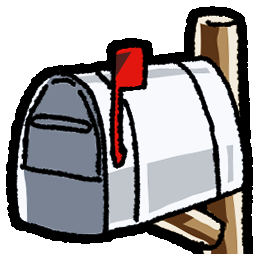
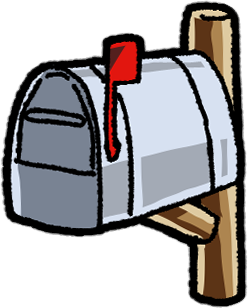
fix: 피그마 기준 앱 홈 HUD 재구성

diff --git a/views.js b/views.js
@@ -1,8 +1,8 @@
 // 모든 화면과 이벤트가 반드시 app.js와 같은 상태 모듈 인스턴스를 본다.
 // 캐시 키가 다르면 브라우저는 같은 state.js를 별도 모듈로 취급해 버튼은
 // 새 상태를 바꾸고 화면은 예전 상태를 그리는 치명적인 불일치가 생긴다.
-import {state,active,characterViewFor,explicitCharacterViewFor} from "./state.js?v=20260820responsivehud1";
-import {eventFor as simulateEventFor,visibleTimeline as simulateVisibleTimeline,charactersAtPlace,homeGroups} from "./simulation.js?v=20260820responsivehud1";
+import {state,active,characterViewFor,explicitCharacterViewFor} from "./state.js?v=20260820homehud2";
+import {eventFor as simulateEventFor,visibleTimeline as simulateVisibleTimeline,charactersAtPlace,homeGroups} from "./simulation.js?v=20260820homehud2";
 const esc=(x="")=>String(x).replace(/[&<>"']/g,m=>({"&":"&amp;","<":"&lt;",">":"&gt;",'"':"&quot;","'":"&#39;"}[m]));
 const I18N={
   en:{brandName:"Drawer Village",observe:"Observe",mailbox:"Mailbox",home:"Home",character:"Characters",catalog:"Collection",relationship:"Relationships",routine:"Weekly routine",statistics:"Statistics",town:"Town",shop:"Shop",settings:"Settings",saved:"Saved on this device",brandTagline:"Character life observation game",currentMoment:"Current moment",todayLog:"Today's log",expand:"Expand",collapse:"Collapse",viewAll:"View all",viewHome:"View home",gridEdit:"Grid edit",language:"Language",languageHelp:"English covers the main interface, and more life scenes and relationship text are translated with every update.",languageNote:"English Beta · Interface and selected life scenes translated; coverage keeps expanding.",mailArrived:"A letter has arrived",mailReady:"Open it when you are ready. Your choice will continue into their actual schedule.",mailEmpty:"No letters have arrived yet",mailEmptyHelp:"Questions, choices, worries, and check-ins from your characters will arrive here.",mailboxHelp:"Read all character letters in one place.",openLetter:"Open letter",characterPicker:"Choose a character to observe",close:"Close",noSleepingRoom:"Other · None (does not stay overnight)"},
@@ -665,8 +665,16 @@ function header(){
   return `<header><div class="brand"><span class="logo"><img src="./icons/drawer-village-logo.png" alt="${esc(t("brandName","서랍마을"))}"></span><div><h1>${t("brandName","서랍마을")}</h1><small>${t("brandTagline","서랍 속 캐릭터 생활 관찰 게임")}</small></div>${previewMode()?`<span class="preview-badge">${esc(previewConfig().label||"사전 체험")}</span>`:""}</div><nav>${tabs.map(([k,n,icon])=>`<button type="button" data-tab="${k}" class="${state.activeTab===k?"on":""}"><span class="tab-icon tab-icon-${k}" data-menu-icon="${k}" aria-hidden="true">${icon}</span><span>${n}</span></button>`).join("")}</nav><span id="save-state">${t("saved","기기에 저장됨")}</span></header>${nativeBar}`;
 }
 const GAME_HUD_SIDE_TABS={
-  left:[["character","character","캐릭터","▱"],["catalog","catalog","취향 사전","◇"],["relationship","relationship","관계","∞"]],
-  right:[["routine","routine","주간 루틴","▦"],["statistics","statistics","통계","▥"],["settings","settings","설정","⚙"]]
+  left:[
+    {key:"character",labelKey:"character",label:"캐릭터",art:"./icons/hud-character-card.png"},
+    {key:"catalog",labelKey:"catalog",label:"취향 사전",art:"./icons/hud-catalog-book.png"},
+    {key:"relationship",labelKey:"relationship",label:"관계",icon:"∞"}
+  ],
+  right:[
+    {key:"routine",labelKey:"routine",label:"주간 루틴",icon:"▦"},
+    {key:"statistics",labelKey:"statistics",label:"통계",icon:"▥"},
+    {key:"settings",labelKey:"settings",label:"설정",icon:"⚙"}
+  ]
 };
 let mobileTownEditing=false;
 let mobileTownPanel="";
@@ -681,7 +689,7 @@ export function setSettingsPane(value="home"){
   settingsPane=["home","gameplay","display","account","support"].includes(next)?next:"home";
 }
 function gameHudSideMenu(side){
-  return `<nav class="game-hud-side game-hud-side-${side}" aria-label="${esc(t(side==="left"?"캐릭터와 관계 메뉴":"일정과 설정 메뉴",side==="left"?"캐릭터와 관계 메뉴":"일정과 설정 메뉴"))}">${GAME_HUD_SIDE_TABS[side].map(([key,labelKey,label,icon])=>`<button type="button" class="game-hud-button" data-tab="${key}"><span data-menu-icon="${key}" aria-hidden="true">${icon}</span><small>${t(labelKey,label)}</small></button>`).join("")}</nav>`;
+  return `<nav class="game-hud-side game-hud-side-${side}" aria-label="${esc(t(side==="left"?"캐릭터와 관계 메뉴":"일정과 설정 메뉴",side==="left"?"캐릭터와 관계 메뉴":"일정과 설정 메뉴"))}">${GAME_HUD_SIDE_TABS[side].map(({key,labelKey,label,art,icon})=>`<button type="button" class="game-hud-button" data-tab="${key}">${art?`<img class="game-hud-menu-art" src="${art}" alt="">`:`<span data-menu-icon="${key}" aria-hidden="true">${icon}</span>`}<small>${t(labelKey,label)}</small></button>`).join("")}</nav>`;
 }
 function gameHudDock(){
   return `<nav class="game-hud-dock" aria-label="${esc(t("주요 메뉴","주요 메뉴"))}"><button type="button" class="game-hud-button game-hud-mailbox-button" data-tab="mailbox"><img src="./icons/mailbox.png" alt=""><small>${t("mailbox","우편함")}</small></button><button type="button" class="game-hud-button" data-tab="home"><span data-menu-icon="home" aria-hidden="true">⌂</span><small>${t("home","집")}</small></button><button type="button" class="game-hud-button" data-open-native-log><span data-menu-icon="log" aria-hidden="true">▤</span><small>${t("todayLog","오늘의 기록")}</small></button><button type="button" class="game-hud-button" data-tab="shop"><span data-menu-icon="shop" aria-hidden="true">♢</span><small>${t("shop","상점")}</small></button><button type="button" data-tab="town" class="game-hud-button game-hud-town-button"><img src="./icons/town-map.png" alt=""><small>${t("town","마을")}</small></button></nav>`;
@@ -1559,10 +1567,10 @@ function observe(){
   // 2인 장면은 lineup이 두 인물을 모두 렌더링한다. 메인 이미지를 중복으로
   // 넣지 않아 예전 CSS가 남아 있어도 거대한 얼굴이 다시 나타나지 않는다.
   const sceneActors=`${presentation.lineupHtml?"":sceneAvatar(c,"native-main-character",presentation.tone,visualMode)}${presentation.sleepMarkHtml}${presentation.lineupHtml}${presentation.conversationHtml}${presentation.thoughtHtml}${presentation.actionHtml}${presentation.companionHtml}${presentation.petHtml}<i></i>`;
-  const hudRoster=`<div class="game-hud-profile"><button type="button" class="game-hud-profile-toggle" data-open-game-hud-roster aria-haspopup="dialog" aria-label="${esc(t("characterPicker","관찰 캐릭터 바꾸기"))}">${profileAvatar(c,"game-hud-current-profile")}<span><b>${esc(c.name)}</b><small>${esc(c.jobTitle||c.job||t("생활 중","생활 중"))}</small></span></button></div>`;
+  const hudRoster=`<div class="game-hud-profile"><button type="button" class="game-hud-profile-toggle" data-open-game-hud-roster aria-haspopup="dialog" aria-label="${esc(t("characterPicker","관찰 캐릭터 바꾸기"))}"><span class="game-hud-profile-frame">${profileAvatar(c,"game-hud-current-profile")}<img class="game-hud-profile-ring" src="./icons/hud-profile-frame.png" alt=""></span><span class="game-hud-profile-copy"><b>${esc(c.name)}</b><small>${esc(c.jobTitle||c.job||t("생활 중","생활 중"))}</small></span></button></div>`;
   const rosterDialog=`<dialog class="game-hud-roster-dialog" data-game-hud-roster-dialog><form method="dialog"><header><span><small>${t("observe","관찰")}</small><h2>${t("characterPicker","관찰 캐릭터 선택")}</h2></span><button value="close" aria-label="${t("close","닫기")}">×</button></header><div class="game-hud-roster-options" aria-label="${esc(t("characterPicker","관찰 캐릭터 선택"))}">${state.order.map(id=>{const person=state.characters[id];return `<button type="button" data-home-character="${id}" class="game-hud-button character-picker-button ${id===c.id?"on":""}" style="--picker-theme:${esc(person.theme?.primary||"#176b60")}" title="${esc(person.name)}" aria-label="${esc(person.name)}">${profileAvatar(person)}<small>${esc(person.name)}</small></button>`}).join("")}</div></form></dialog>`;
   const statusCard=`<article class="game-hud-moment"><div class="game-hud-moment-head"><small>${t("currentMoment","지금 이 순간")}</small></div><h1>${esc(e.title)}</h1><p>${esc(e.desc)}</p><b>${location}</b></article>`;
-  const gameHud=`<section class="game-observe-hud scene-tone-${presentation.tone} scene-action-${presentation.actionKind}" style="--native-own:${esc(c.theme?.primary||"#176b60")};--native-own-secondary:${esc(c.theme?.secondary||c.theme?.primary||"#176b60")};--log-theme:${logTheme}" aria-label="${esc(c.name)}의 관찰 화면"><div class="native-observe-backdrop" style="background-image:url(&quot;${esc(nativeBackground)}&quot;)"></div><div class="native-observe-shade"></div><div class="native-scene-atmosphere atmosphere-${presentation.atmosphere}" aria-hidden="true"></div>${presentation.effects}<div class="game-hud-top">${hudRoster}<time>${new Date().toLocaleTimeString(uiLocale(),{hour:"2-digit",minute:"2-digit"})}</time></div>${gameHudSideMenu("left")}${gameHudSideMenu("right")}<div class="game-hud-stage"><div class="native-character-stage ${stageClasses}" style="--home-visual-scale:${visualScale};${sceneLayoutVars(c,visualMode)}" aria-label="${esc(c.name)} 현재 장면">${sceneActors}</div></div>${statusCard}${gameHudDock()}</section>`;
+  const gameHud=`<section class="game-observe-hud scene-tone-${presentation.tone} scene-action-${presentation.actionKind}" data-native-hud-version="3" style="--native-own:${esc(c.theme?.primary||"#176b60")};--native-own-secondary:${esc(c.theme?.secondary||c.theme?.primary||"#176b60")};--log-theme:${logTheme}" aria-label="${esc(c.name)}의 관찰 화면"><div class="native-observe-backdrop" style="background-image:url(&quot;${esc(nativeBackground)}&quot;)"></div><div class="native-observe-shade"></div><div class="native-scene-atmosphere atmosphere-${presentation.atmosphere}" aria-hidden="true"></div>${presentation.effects}<div class="game-hud-top">${hudRoster}<time>${new Date().toLocaleTimeString(uiLocale(),{hour:"2-digit",minute:"2-digit"})}</time></div>${gameHudSideMenu("left")}${gameHudSideMenu("right")}<div class="game-hud-stage"><div class="native-character-stage ${stageClasses}" style="--home-visual-scale:${visualScale};${sceneLayoutVars(c,visualMode)}" aria-label="${esc(c.name)} 현재 장면">${sceneActors}</div></div>${statusCard}${gameHudDock()}</section>`;
   return `${gameHud}${rosterDialog}${nativeFullLog}${buildingDetailDialogs()}`;
 }
 const ROOM_SIZE_SPANS={
@@ -2995,6 +3003,12 @@ Object.assign(UI_TEXT.en,{
 });
 Object.assign(UI_TEXT.ja,{
   "기타 · 없음 (숙박하지 않음)":"その他・なし（宿泊しない）","마법봉":"魔法の杖","만성 통증":"慢性疼痛","만화":"漫画","만화 보기":"漫画を読む","말차 라테":"抹茶ラテ","맛집 탐방":"グルメ巡り","매력적임":"魅力的","매우 소박함":"とても素朴","매우 아름답거나 잘생김":"とても美しい・ハンサム","매우 추함":"非常に不美形","매우 현실적":"非常に現実的","매운 음식":"辛い料理","매운맛":"辛さ","매트":"マット","맹·시각장애":"盲・視覚障害","머스크":"ムスク","먹방":"モッパン","면 요리 선호":"麺料理を好む","모던":"モダン","모바일 게임":"モバイルゲーム","모험":"冒険"
+});
+Object.assign(UI_TEXT.en,{
+  "물그릇에서 가볍게 물놀이를 한 뒤 날개를 털어 물기를 털고 있어요.":"After splashing lightly in the water bowl, they shake their wings dry.","미관용 의수":"Cosmetic prosthetic arm","미관용 의족":"Cosmetic prosthetic leg","미니멀":"Minimal","미래적":"Futuristic","미리 정리함":"Plans and organizes ahead","미술 도구":"Art supplies","미스터리":"Mystery","밀크티":"Milk tea","바닐라 라테":"Vanilla latte","바디 제품":"Body care products","바디파워 의수":"Body-powered prosthetic arm","바디파워 손형 의수":"Body-powered hand prosthesis","바디파워 갈고리형 의수":"Body-powered hook prosthesis","바깥 일정을 마치고 집으로 돌아왔어요.":"They finished their plans outside and came home.","바닥의 작은 장애물을 피해 천천히 움직이고 있어요.":"They move slowly around small obstacles on the floor.","믿는 사람 가까이에 머물며 조용히 주변을 살피고 있어요.":"They stay near someone they trust and quietly watch their surroundings.","미리보기에서 직접 끌거나 크기 조절 손잡이를 사용하세요.":"Drag directly in the preview or use the resize handle.","매우 편안함":"Very comfortable","매우 불편함":"Very uncomfortable"
+});
+Object.assign(UI_TEXT.ja,{
+  "물그릇에서 가볍게 물놀이를 한 뒤 날개를 털어 물기를 털고 있어요.":"水入れで軽く水浴びをした後、翼を羽ばたかせて水気を払っています。","미관용 의수":"装飾用義手","미관용 의족":"装飾用義足","미니멀":"ミニマル","미래적":"未来的","미리 정리함":"前もって整理する","미술 도구":"画材","미스터리":"ミステリー","밀크티":"ミルクティー","바닐라 라테":"バニララテ","바디 제품":"ボディケア用品","바디파워 의수":"体動式義手","바디파워 손형 의수":"体動式ハンド型義手","바디파워 갈고리형 의수":"体動式フック型義手","바깥 일정을 마치고 집으로 돌아왔어요.":"外での予定を終えて家に戻りました。","바닥의 작은 장애물을 피해 천천히 움직이고 있어요.":"床の小さな障害物を避けながらゆっくり動いています。","믿는 사람 가까이에 머물며 조용히 주변을 살피고 있어요.":"信頼する人のそばにいて、静かに周囲を見ています。","미리보기에서 직접 끌거나 크기 조절 손잡이를 사용하세요.":"プレビュー上で直接ドラッグするか、サイズ調整ハンドルを使ってください。","매우 편안함":"とても快適","매우 불편함":"とても不快"
 });
 function townPlaceEditor(p,items,audiences,selected){
   return `<details class="${selected?"mobile-selected":""}" ${selected?"open":""}><summary><b>${esc(p.emoji)} ${esc(p.name)}</b></summary><div class="place-edit-heading"><span><b>${esc(p.name)} 편집</b><small>유형을 먼저 고르면 어울리는 건물 모양을 추천해요.</small></span><button class="danger" data-delete-place="${p.id}">이 건물 삭제</button></div><div class="place-config"><label>건물 이름<input data-place-field="name" data-place-id="${p.id}" value="${esc(p.name)}"></label><label>건물 유형<select data-place-field="type" data-place-id="${p.id}">${placeTypeOptions(p)}</select></label><label>세부 유형<select data-place-field="subtype" data-place-id="${p.id}">${placeSubtypeOptions(p)}</select></label><label>가격대<select data-place-field="priceRange" data-place-id="${p.id}">${["저렴","보통","고급","명품"].map(x=>`<option ${p.priceRange===x?"selected":""}>${x}</option>`).join("")}</select></label><label>마을 속 건물 크기<input type="range" min=".45" max="1.5" step=".05" data-place-field="imageScale" data-place-id="${p.id}" value="${p.imageScale||1}"></label><label>매운맛 정도<select data-place-field="spicy" data-place-id="${p.id}">${levelOptions(SPICE_LEVELS,p.spicy||0)}</select></label><label>단맛 정도<select data-place-field="sweet" data-place-id="${p.id}">${levelOptions(SWEET_LEVELS,p.sweet||0)}</select></label></div><div class="place-photo-tools"><b>지도에 표시할 건물 모양</b><span><button data-building-shape-open="${p.id}">건물 모양 선택</button></span><b>생활 로그·현재 장면용 내부 사진</b><span><button data-place-interior-image="${p.id}">내부 사진 업로드</button><button data-image-url="placeInterior" data-id="${p.id}">링크</button>${p.interiorImage?`<button data-clear-place-interior-image="${p.id}">지우기</button>`:""}</span></div><h4>주요 이용층</h4><div class="stock-picker">${audiences.map(x=>`<button data-place-audience="${p.id}" data-value="${x}" class="${(p.audiences||[]).includes(x)?"on":""}">${x}</button>`).join("")}</div><h4>이곳에서 파는 것·이용할 수 있는 것</h4><div class="stock-list stock-picker">${items.map(item=>`<button data-place-stock="${p.id}" data-item-id="${item.id}" class="${(p.stock||[]).includes(item.id)?"on":""}">${CATALOG_LABELS[item.kind]} · ${esc(item.name)}</button>`).join("")}</div></details>`;

diff --git a/app.css b/app.css
@@ -6387,11 +6387,121 @@ html[data-color-mode][data-visual-theme="baroque"] .visual-theme-options button[
   content:"❦";position:absolute;z-index:2;right:18px;top:50%;translate:0 -50%;color:#f0c78f;font:700 28px Georgia,serif;text-shadow:0 1px #351724;
 }
 
-/* Final home-screen authority (keep after all legacy mobile rules). */
-html.native-app[data-active-tab="observe"] .native-character-picker button,
-html[data-color-mode="light"].native-app[data-active-tab="observe"] .native-character-picker button{
-  border:0!important;outline:0!important;background:transparent!important;box-shadow:none!important
+/* Native observe HUD v3 is the single authority for the Android home screen.
+   Percentages reproduce the 412 x 917 Figma frame. Gray boxes in that frame are
+   placement guides, never visible icon backgrounds. */
+html.native-platform #app>header{display:none!important}
+html[data-observe-profile-shield="1"] [data-open-game-hud-roster]{pointer-events:none!important}
+html.native-platform[data-active-tab="observe"] :is(body,#app,main){height:100dvh;min-height:0!important;overflow:hidden!important}
+html.native-platform[data-active-tab="observe"] #app>main{padding:0!important}
+html.native-platform[data-active-tab="observe"] .game-observe-hud[data-native-hud-version="3"]{
+  --hud-side-top:13.85dvh;--hud-side-row:11.45dvh;--hud-icon-h:6.87dvh;--hud-label-top:6.22dvh;--hud-label-h:3.71dvh;
+  position:relative!important;display:block!important;width:100%!important;height:100dvh!important;min-height:0!important;
+  margin:0!important;padding:0!important;overflow:hidden!important;border:0!important;border-radius:0!important;box-shadow:none!important;touch-action:pan-y!important
 }
+html.native-platform[data-active-tab="observe"] .game-observe-hud[data-native-hud-version="3"] .game-hud-top{
+  position:absolute!important;z-index:24!important;inset:0 0 auto 0!important;display:block!important;width:100%!important;height:13.1dvh!important;
+  padding:0!important;overflow:visible!important;pointer-events:none!important
+}
+html.native-platform[data-active-tab="observe"] .game-observe-hud[data-native-hud-version="3"] .game-hud-top::before{
+  position:absolute!important;z-index:-1!important;inset:0!important;content:""!important;background:#654838ed!important;
+  clip-path:polygon(0 0,100% 0,100% 67%,51% 67%,47% 100%,0 100%)!important
+}
+html.native-platform[data-active-tab="observe"] .game-observe-hud[data-native-hud-version="3"] .game-hud-profile{
+  position:absolute!important;left:1.7vw!important;top:3.38dvh!important;width:min(67vw,330px)!important;height:min(9.6dvh,94px)!important;pointer-events:auto!important
+}
+html.native-platform[data-active-tab="observe"] .game-observe-hud[data-native-hud-version="3"] .game-hud-profile-toggle{
+  display:grid!important;grid-template-columns:min(18.93vw,88px) minmax(0,1fr)!important;align-items:center!important;gap:2.1vw!important;
+  width:100%!important;height:100%!important;min-height:0!important;padding:0!important;overflow:visible!important;border:0!important;background:transparent!important;box-shadow:none!important
+}
+html.native-platform[data-active-tab="observe"] .game-observe-hud[data-native-hud-version="3"] .game-hud-profile-frame{
+  position:relative!important;display:grid!important;place-items:center!important;width:min(18.93vw,88px)!important;height:min(8.51dvh,88px)!important;
+  overflow:visible!important;border:0!important;background:transparent!important;box-shadow:none!important
+}
+html.native-platform[data-active-tab="observe"] .game-observe-hud[data-native-hud-version="3"] .game-hud-profile-frame :is(.avatar,.sprite){
+  width:min(15.05vw,70px)!important;height:min(6.76dvh,70px)!important;overflow:hidden!important;border:0!important;border-radius:50%!important;
+  background:transparent!important;box-shadow:none!important;object-fit:cover!important
+}
+html.native-platform[data-active-tab="observe"] .game-observe-hud[data-native-hud-version="3"] .game-hud-profile-ring{
+  position:absolute!important;inset:0!important;z-index:2!important;display:block!important;width:100%!important;height:100%!important;max-width:none!important;
+  object-fit:contain!important;pointer-events:none!important
+}
+html.native-platform[data-active-tab="observe"] .game-observe-hud[data-native-hud-version="3"] .game-hud-profile-copy{
+  display:grid!important;align-content:center!important;min-width:0!important;padding:0!important;border:0!important;background:transparent!important;box-shadow:none!important
+}
+html.native-platform[data-active-tab="observe"] .game-observe-hud[data-native-hud-version="3"] .game-hud-profile-copy b{
+  overflow:hidden!important;color:#f3dfbb!important;font-size:clamp(22px,7vw,34px)!important;line-height:1.05!important;text-overflow:ellipsis!important;
+  white-space:nowrap!important;text-shadow:0 2px 4px #2a160d99!important
+}
+html.native-platform[data-active-tab="observe"] .game-observe-hud[data-native-hud-version="3"] .game-hud-profile-copy small{
+  overflow:hidden!important;color:#ead3ae!important;font-size:clamp(11px,3.5vw,17px)!important;text-overflow:ellipsis!important;white-space:nowrap!important;
+  text-shadow:0 2px 4px #2a160d99!important
+}
+html.native-platform[data-active-tab="observe"] .game-observe-hud[data-native-hud-version="3"] .game-hud-top>time{
+  position:absolute!important;top:4.03dvh!important;right:4.1vw!important;margin:0!important;padding:0!important;color:#f3dfbb!important;
+  font-size:clamp(20px,6vw,29px)!important;line-height:1!important;text-shadow:0 2px 4px #2a160d99!important
+}
+html.native-platform[data-active-tab="observe"] .game-observe-hud[data-native-hud-version="3"] .game-hud-stage{
+  position:absolute!important;z-index:7!important;left:18.45vw!important;right:18.45vw!important;top:13.1dvh!important;height:49.4dvh!important;
+  display:grid!important;place-items:center!important;min-height:0!important;padding:0!important;overflow:visible!important;pointer-events:none!important
+}
+html.native-platform[data-active-tab="observe"] .game-observe-hud[data-native-hud-version="3"] .native-character-stage{width:min(48vw,220px)!important;height:min(32dvh,280px)!important}
+html.native-platform[data-active-tab="observe"] .game-observe-hud[data-native-hud-version="3"] .native-character-stage:is(.has-scene-companion,.has-scene-lineup){width:min(65vw,300px)!important;height:min(32dvh,280px)!important}
+html.native-platform[data-active-tab="observe"] .game-observe-hud[data-native-hud-version="3"] .game-hud-side{
+  position:absolute!important;z-index:25!important;top:var(--hud-side-top)!important;display:grid!important;grid-template-rows:repeat(3,var(--hud-side-row))!important;
+  align-content:start!important;gap:0!important;width:16.75vw!important;height:34.35dvh!important;overflow:visible!important
+}
+html.native-platform[data-active-tab="observe"] .game-observe-hud[data-native-hud-version="3"] .game-hud-side-left{left:2.91vw!important}
+html.native-platform[data-active-tab="observe"] .game-observe-hud[data-native-hud-version="3"] .game-hud-side-right{right:2.91vw!important}
+html.native-platform[data-active-tab="observe"] .game-observe-hud[data-native-hud-version="3"] .game-hud-side button,
+html.native-platform[data-active-tab="observe"] .game-observe-hud[data-native-hud-version="3"] .game-hud-dock button{
+  position:relative!important;display:block!important;width:100%!important;height:100%!important;min-width:0!important;min-height:0!important;padding:0!important;
+  overflow:visible!important;border:0!important;outline:0!important;background:transparent!important;box-shadow:none!important;text-shadow:none!important
+}
+html.native-platform[data-active-tab="observe"] .game-observe-hud[data-native-hud-version="3"] .game-hud-side button>span,
+html.native-platform[data-active-tab="observe"] .game-observe-hud[data-native-hud-version="3"] .game-hud-side .game-hud-menu-art{
+  position:absolute!important;top:0!important;left:50%!important;display:grid!important;place-items:center!important;width:15.29vw!important;height:var(--hud-icon-h)!important;
+  max-width:none!important;overflow:visible!important;transform:translateX(-50%)!important;border:0!important;background:transparent!important;box-shadow:none!important;
+  color:#fff!important;font-size:clamp(31px,10.4vw,45px)!important;line-height:1!important;object-fit:contain!important;filter:drop-shadow(0 3px 3px #0009)!important
+}
+html.native-platform[data-active-tab="observe"] .game-observe-hud[data-native-hud-version="3"] :is(.game-hud-side,.game-hud-dock) button>small{
+  position:absolute!important;z-index:3!important;display:grid!important;place-items:center!important;height:var(--hud-label-h)!important;margin:0!important;padding:0 4px!important;
+  overflow:hidden!important;border:2px solid #1c140e!important;border-radius:999px!important;background:#473a28!important;color:#d4bb7c!important;
+  font-size:clamp(8px,2.65vw,12px)!important;font-weight:900!important;line-height:1!important;text-align:center!important;text-overflow:ellipsis!important;
+  white-space:nowrap!important;text-shadow:none!important;box-shadow:none!important
+}
+html.native-platform[data-active-tab="observe"] .game-observe-hud[data-native-hud-version="3"] .game-hud-side button>small{
+  top:var(--hud-label-top)!important;left:50%!important;width:16.75vw!important;transform:translateX(-50%)!important
+}
+html.native-platform[data-active-tab="observe"] .game-observe-hud[data-native-hud-version="3"] .game-hud-moment{
+  position:absolute!important;z-index:27!important;left:8.74vw!important;top:64.34dvh!important;width:84.71vw!important;height:20.39dvh!important;max-width:none!important;
+  margin:0!important;padding:clamp(12px,3.4vw,18px)!important;overflow:hidden!important;border:1px solid #c9ab91!important;border-radius:29px!important;
+  background:#fff8efed!important;box-shadow:0 5px 18px #2b160d35!important
+}
+html.native-platform[data-active-tab="observe"] .game-observe-hud[data-native-hud-version="3"] .game-hud-moment-head{margin:0 0 3px!important}
+html.native-platform[data-active-tab="observe"] .game-observe-hud[data-native-hud-version="3"] .game-hud-moment h1{
+  display:-webkit-box!important;margin:0 0 4px!important;overflow:hidden!important;font-size:clamp(17px,4.8vw,23px)!important;line-height:1.18!important;
+  -webkit-box-orient:vertical!important;-webkit-line-clamp:2!important;line-clamp:2!important
+}
+html.native-platform[data-active-tab="observe"] .game-observe-hud[data-native-hud-version="3"] .game-hud-moment p{
+  display:-webkit-box!important;margin:0 0 5px!important;overflow:hidden!important;font-size:clamp(10px,2.9vw,13px)!important;line-height:1.35!important;
+  -webkit-box-orient:vertical!important;-webkit-line-clamp:2!important;line-clamp:2!important
+}
+html.native-platform[data-active-tab="observe"] .game-observe-hud[data-native-hud-version="3"] .game-hud-moment>b{display:block!important;overflow:hidden!important;font-size:clamp(9px,2.7vw,12px)!important;text-overflow:ellipsis!important;white-space:nowrap!important}
+html.native-platform[data-active-tab="observe"] .game-observe-hud[data-native-hud-version="3"] .game-hud-dock{
+  position:absolute!important;z-index:28!important;left:1.21vw!important;top:86.69dvh!important;display:grid!important;grid-template-columns:repeat(5,1fr)!important;
+  gap:1.21vw!important;width:97.57vw!important;height:11.45dvh!important;min-height:0!important;margin:0!important;padding:0!important;
+  overflow:visible!important;border:0!important;background:transparent!important;box-shadow:none!important
+}
+html.native-platform[data-active-tab="observe"] .game-observe-hud[data-native-hud-version="3"] .game-hud-dock button>span,
+html.native-platform[data-active-tab="observe"] .game-observe-hud[data-native-hud-version="3"] .game-hud-dock button>img{
+  position:absolute!important;top:0!important;left:50%!important;display:grid!important;place-items:center!important;width:18.45vw!important;height:8.29dvh!important;
+  max-width:none!important;overflow:visible!important;transform:translateX(-50%)!important;border:0!important;background:transparent!important;box-shadow:none!important;
+  color:#fff!important;font-size:clamp(27px,8.6vw,38px)!important;line-height:1!important;object-fit:contain!important;filter:drop-shadow(0 3px 3px #0008)!important
+}
+html.native-platform[data-active-tab="observe"] .game-observe-hud[data-native-hud-version="3"] .game-hud-dock button>small{top:7.63dvh!important;left:0!important;width:100%!important;max-width:none!important}
+html.native-app[data-active-tab="observe"] .native-character-picker button,
+html[data-color-mode="light"].native-app[data-active-tab="observe"] .native-character-picker button,
 html.native-app[data-active-tab="observe"] .native-character-picker button.on,
 html[data-color-mode="light"].native-app[data-active-tab="observe"] .native-character-picker button.on{
   border:0!important;outline:0!important;background:transparent!important;box-shadow:none!important
@@ -6399,6 +6509,10 @@ html[data-color-mode="light"].native-app[data-active-tab="observe"] .native-char
 html.native-app[data-active-tab="observe"] .native-character-picker button.on :is(.avatar,.sprite){
   filter:drop-shadow(0 0 2px #fff) drop-shadow(0 0 7px var(--picker-theme,var(--p))) drop-shadow(0 0 16px var(--picker-theme,var(--p)))!important;
   animation:native-picker-aura 2.2s ease-in-out infinite alternate!important
+}
+@media(max-width:380px),(max-height:720px){
+  html.native-platform[data-active-tab="observe"] .game-observe-hud[data-native-hud-version="3"] .game-hud-moment{padding:10px 12px!important}
+  html.native-platform[data-active-tab="observe"] .game-observe-hud[data-native-hud-version="3"] .game-hud-moment p{-webkit-line-clamp:1!important;line-clamp:1!important}
 }
 
 /* 2026-08-15: final mobile scene, action-prop, and expansion-card authority. */

diff --git a/app.js b/app.js
@@ -1,10 +1,10 @@
-import {state, active, save, replaceState, createCharacter, deleteCharacter, setActive, setActiveHome, updateCharacter, toggleChip, addRelationship, updateRelationship, deleteRelationship, setHomeImage, setHomeBackground, setPlaceInteriorImage, setCharacterImage, setWorldBackground, addPlace, deletePlace, movePlace, moveHomeOnTown, updatePlace, reorderPlace, resetAll, cloneState, setHomeEditMode, updateHome, createHome, deleteHome, addCharacterResidence, removeCharacterResidence, updateCharacterResidence, updateRoom, addRoom, setHomeFloorCount, setActiveHomeFloor, setRoomType, deleteRoom, addPet, updatePet, deletePet, setPetImage, addCar, updateCar, deleteCar, toggleFurniture, setHomeResidents, moveCharacter, addCatalogItem, updateCatalogItem, deleteCatalogItem, toggleFavorite, toggleOwned, togglePlaceStock, setCharacterPane, addTown, switchTown, deleteTown, recordCharacterInteraction, setDailyQuestion, updateRoutineDays, scheduleCharacterChoice, settleScheduledChoices} from "./state.js?v=20260820responsivehud1";
-import {eventFor} from "./simulation.js?v=20260820responsivehud1";
-import {renderApp, catalogCardMarkup, setAccountLabel, setAccountEntitlements, setMobileTownEditing, setMobileTownPanel, setSettingsPane, translateDynamicInterface} from "./views.js?v=20260820responsivehud1";
-import {initializeLocalMediaState,persistLocalImage,informationOnlyState,localMediaUsage,isPendingLocalImage} from "./local-media.js?v=20260820responsivehud1";
-import {SPEECH_STYLE_OPTIONS,characterQuestionPrompt,characterContactSpeech} from "./speech-styles.js?v=20260820responsivehud1";
-import {characterNotificationsAvailable,characterNotificationPermission,requestCharacterNotificationPermission,initializeCharacterNotifications,replaceCharacterNotifications,scheduleCharacterNotification,cancelCharacterNotifications,characterNotificationLargeIcon} from "./character-notifications.js?v=20260820responsivehud1";
-import {mergeImportedBackupState} from "./sync-merge.js?v=20260820responsivehud1";
+import {state, active, save, replaceState, createCharacter, deleteCharacter, setActive, setActiveHome, updateCharacter, toggleChip, addRelationship, updateRelationship, deleteRelationship, setHomeImage, setHomeBackground, setPlaceInteriorImage, setCharacterImage, setWorldBackground, addPlace, deletePlace, movePlace, moveHomeOnTown, updatePlace, reorderPlace, resetAll, cloneState, setHomeEditMode, updateHome, createHome, deleteHome, addCharacterResidence, removeCharacterResidence, updateCharacterResidence, updateRoom, addRoom, setHomeFloorCount, setActiveHomeFloor, setRoomType, deleteRoom, addPet, updatePet, deletePet, setPetImage, addCar, updateCar, deleteCar, toggleFurniture, setHomeResidents, moveCharacter, addCatalogItem, updateCatalogItem, deleteCatalogItem, toggleFavorite, toggleOwned, togglePlaceStock, setCharacterPane, addTown, switchTown, deleteTown, recordCharacterInteraction, setDailyQuestion, updateRoutineDays, scheduleCharacterChoice, settleScheduledChoices} from "./state.js?v=20260820homehud2";
+import {eventFor} from "./simulation.js?v=20260820homehud2";
+import {renderApp, catalogCardMarkup, setAccountLabel, setAccountEntitlements, setMobileTownEditing, setMobileTownPanel, setSettingsPane, translateDynamicInterface} from "./views.js?v=20260820homehud2";
+import {initializeLocalMediaState,persistLocalImage,informationOnlyState,localMediaUsage,isPendingLocalImage} from "./local-media.js?v=20260820homehud2";
+import {SPEECH_STYLE_OPTIONS,characterQuestionPrompt,characterContactSpeech} from "./speech-styles.js?v=20260820homehud2";
+import {characterNotificationsAvailable,characterNotificationPermission,requestCharacterNotificationPermission,initializeCharacterNotifications,replaceCharacterNotifications,scheduleCharacterNotification,cancelCharacterNotifications,characterNotificationLargeIcon} from "./character-notifications.js?v=20260820homehud2";
+import {mergeImportedBackupState} from "./sync-merge.js?v=20260820homehud2";
 
 // IndexedDB 사진 복원은 화면 부팅과 독립적으로 진행한다. 저장소가 느리거나
 // 잠겨 있어도 render()와 버튼 이벤트 연결은 즉시 끝나야 한다.
@@ -952,7 +952,9 @@ function render({force=false}={}){
   resetScrollAfterRender=false;
   try{
     const mobileSite=window.matchMedia?.("(max-width:720px)")?.matches??window.innerWidth<=720;
-    document.documentElement.classList.toggle("native-app",Boolean(window.DRAWER_VILLAGE_NATIVE)||mobileSite);
+    const nativePlatform=Boolean(window.DRAWER_VILLAGE_NATIVE||document.documentElement.classList.contains("native-platform"));
+    document.documentElement.classList.toggle("native-app",nativePlatform);
+    document.documentElement.classList.toggle("mobile-site",!nativePlatform&&mobileSite);
     document.documentElement.lang=({en:"en",ja:"ja"}[state.uiLanguage]||"ko");
     document.title=({en:"Drawer Village",ja:"ひきだし村"}[state.uiLanguage]||"서랍마을");
     document.documentElement.dataset.uiFont=state.uiFont||"system";
@@ -2558,6 +2560,22 @@ async function applyImage(type,id,room,data){
 }
 
 const APP_TABS=["observe","mailbox","home","character","catalog","relationship","routine","statistics","town","shop","settings"];
+let observeProfileShieldUntil=0;
+function armObserveProfileInputShield(duration=760){
+  observeProfileShieldUntil=performance.now()+duration;
+  document.documentElement.dataset.observeProfileShield="1";
+  setTimeout(()=>{
+    if(performance.now()>=observeProfileShieldUntil)delete document.documentElement.dataset.observeProfileShield;
+  },duration+40);
+}
+function blockObserveProfileInputAfterNavigation(event){
+  if(performance.now()>observeProfileShieldUntil)return;
+  const target=event.target instanceof Element?event.target:null;
+  if(!target?.closest?.("[data-open-game-hud-roster]"))return;
+  event.preventDefault();
+  event.stopImmediatePropagation();
+}
+["pointerdown","pointerup","touchend","click"].forEach(type=>document.addEventListener(type,blockObserveProfileInputAfterNavigation,true));
 function recordTabHistory(tab,replace=false){
   if(!APP_TABS.includes(tab))return;
   try{sessionStorage.setItem("drawer-village-active-tab",tab)}catch{}
@@ -2570,6 +2588,8 @@ function recordTabHistory(tab,replace=false){
 }
 function navigateToTab(tab,{recordHistory=true}={}){
   if(!APP_TABS.includes(tab))return;
+  const returningToObserve=tab==="observe"&&state.activeTab!=="observe";
+  if(returningToObserve)armObserveProfileInputShield();
   document.querySelector(".page-guide[open]")?.close("navigate");
   if(tab!=="home")state.homeEditMode=false;
   if(tab!=="character"){
@@ -3927,7 +3947,7 @@ recordTabHistory(state.activeTab,true);
 render();
 if(!maintenanceEnabled())showInstallButton();
 if(!maintenanceEnabled()){
-  import("./auth.js?v=20260820responsivehud1").catch(error=>{
+  import("./auth.js?v=20260820homehud2").catch(error=>{
     console.warn("로그인 기능을 불러오지 못했지만 게임은 계속 실행됩니다.",error);
     setAccountLabel("Google 로그인");
   });
@@ -3942,7 +3962,7 @@ if("serviceWorker" in navigator){
       globalThis.caches?.keys?.().then(keys=>Promise.all(keys.map(key=>caches.delete(key))))
     ]).catch(error=>console.warn("앱의 이전 웹 캐시를 정리하지 못했습니다",error));
   }else{
-    navigator.serviceWorker.register("./sw.js?v=20260820responsivehud1",{updateViaCache:"none"}).then(registration=>registration.update()).catch(error=>console.warn("오프라인 업데이트 준비 실패",error));
+    navigator.serviceWorker.register("./sw.js?v=20260820homehud2",{updateViaCache:"none"}).then(registration=>registration.update()).catch(error=>console.warn("오프라인 업데이트 준비 실패",error));
   }
 }
 const lockPortrait=()=>screen.orientation?.lock?.("portrait").catch(()=>{});

diff --git a/index.html b/index.html
@@ -25,14 +25,13 @@
   <link rel="apple-touch-icon" href="./icons/apple-touch-icon.png">
   <link rel="preload" href="./fonts/ChangwonDangamRound-Regular.woff2" as="font" type="font/woff2" crossorigin>
   <script src="font-preferences.js?v=20260810e"></script>
-  <script>if(matchMedia("(max-width:720px)").matches)document.documentElement.classList.add("native-app")</script>
   <link rel="stylesheet" href="font-preferences.css?v=20260810e">
-  <link rel="stylesheet" href="app.css?v=20260820responsivehud1">
-  <link rel="stylesheet" href="town-fit.css?v=20260820responsivehud1">
-  <link rel="stylesheet" href="interface-system.css?v=20260820responsivehud1">
-  <link rel="stylesheet" href="home-scene-layout.css?v=20260820responsivehud1">
-  <link rel="stylesheet" href="theme.css?v=20260820responsivehud1">
-  <script src="config.js?v=20260820responsivehud1"></script>
+  <link rel="stylesheet" href="app.css?v=20260820homehud2">
+  <link rel="stylesheet" href="town-fit.css?v=20260820homehud2">
+  <link rel="stylesheet" href="interface-system.css?v=20260820homehud2">
+  <link rel="stylesheet" href="home-scene-layout.css?v=20260820homehud2">
+  <link rel="stylesheet" href="theme.css?v=20260820homehud2">
+  <script src="config.js?v=20260820homehud2"></script>
 </head>
 <body>
   <div id="app-loading" class="app-loading-screen" aria-live="polite">
@@ -87,6 +86,6 @@
       window.addEventListener("DOMContentLoaded",()=>setTimeout(fail,12000));
     })();
   </script>
-  <script type="module" src="app.js?v=20260820responsivehud1"></script>
+  <script type="module" src="app.js?v=20260820homehud2"></script>
 </body>
 </html>

diff --git a/auth.js b/auth.js
@@ -3,7 +3,7 @@ import {getAuth,GoogleAuthProvider,setPersistence,browserLocalPersistence,onAuth
 import {getFirestore,doc,getDoc,getDocFromServer,setDoc,collection,getDocs,getDocsFromServer,deleteDoc,deleteField,serverTimestamp,arrayUnion} from "https://www.gstatic.com/firebasejs/12.2.1/firebase-firestore.js";
 import {getStorage,ref,uploadBytes,getDownloadURL} from "https://www.gstatic.com/firebasejs/12.2.1/firebase-storage.js";
 import {gzip as gzipBytes,ungzip as ungzipBytes} from "./vendor/pako.esm.mjs";
-import {mergeDeviceAndCloudState} from "./sync-merge.js?v=20260820responsivehud1";
+import {mergeDeviceAndCloudState} from "./sync-merge.js?v=20260820homehud2";
 
 const cfg=window.PARALLEL_CITY_FIREBASE||{};
 const ready=Boolean(cfg.apiKey&&cfg.projectId&&cfg.authDomain);

diff --git a/simulation.js b/simulation.js
@@ -1,5 +1,5 @@
-import {state,save,characterViewFor,explicitCharacterViewFor} from "./state.js?v=20260820responsivehud1";
-import {characterPlanSpeech} from "./speech-styles.js?v=20260820responsivehud1";
+import {state,save,characterViewFor,explicitCharacterViewFor} from "./state.js?v=20260820homehud2";
+import {characterPlanSpeech} from "./speech-styles.js?v=20260820homehud2";
 
 const mins=t=>{const [h,m]=String(t||"00:00").split(":").map(Number);return h*60+m};
 const clock=n=>`${String(Math.floor(n/60)%24).padStart(2,"0")}:${String(n%60).padStart(2,"0")}`;

diff --git a/state.js b/state.js
@@ -1,5 +1,5 @@
-import {serializeLocalMediaState,preserveDevicePhotos} from "./local-media.js?v=20260820responsivehud1";
-import {SPEECH_STYLE_OPTIONS} from "./speech-styles.js?v=20260820responsivehud1";
+import {serializeLocalMediaState,preserveDevicePhotos} from "./local-media.js?v=20260820homehud2";
+import {SPEECH_STYLE_OPTIONS} from "./speech-styles.js?v=20260820homehud2";
 
 const KEY="drawer-village-game-v1";
 const oldKey="parallel-city-game-v2";

diff --git a/scripts/extract-hud-assets.py b/scripts/extract-hud-assets.py
@@ -1,0 +1,29 @@
+from pathlib import Path
+
+import numpy as np
+from PIL import Image
+
+
+SOURCE = Path(r"C:\Users\김세은\Downloads\Quick Share\일러스트 20260820 (9).png")
+OUTPUT = Path(__file__).resolve().parents[1] / "icons"
+ASSETS = {
+    "hud-profile-frame.png": (0, 0, 350, 390),
+    "hud-character-card.png": (0, 390, 350, 660),
+    "hud-catalog-book.png": (0, 670, 380, 1030),
+    "mailbox.png": (0, 2550, 400, 3088),
+    "town-map.png": (1010, 2550, 1440, 3088),
+}
+
+
+image = Image.open(SOURCE).convert("RGBA")
+OUTPUT.mkdir(parents=True, exist_ok=True)
+for name, box in ASSETS.items():
+    pixels = np.array(image.crop(box))
+    white = np.all(pixels[:, :, :3] > 247, axis=2)
+    pixels[white, 3] = 0
+    alpha = pixels[:, :, 3]
+    rows, columns = np.where(alpha > 0)
+    pixels = pixels[rows.min() : rows.max() + 1, columns.min() : columns.max() + 1]
+    asset = Image.fromarray(pixels)
+    asset.save(OUTPUT / name)
+    print(name, asset.size)
